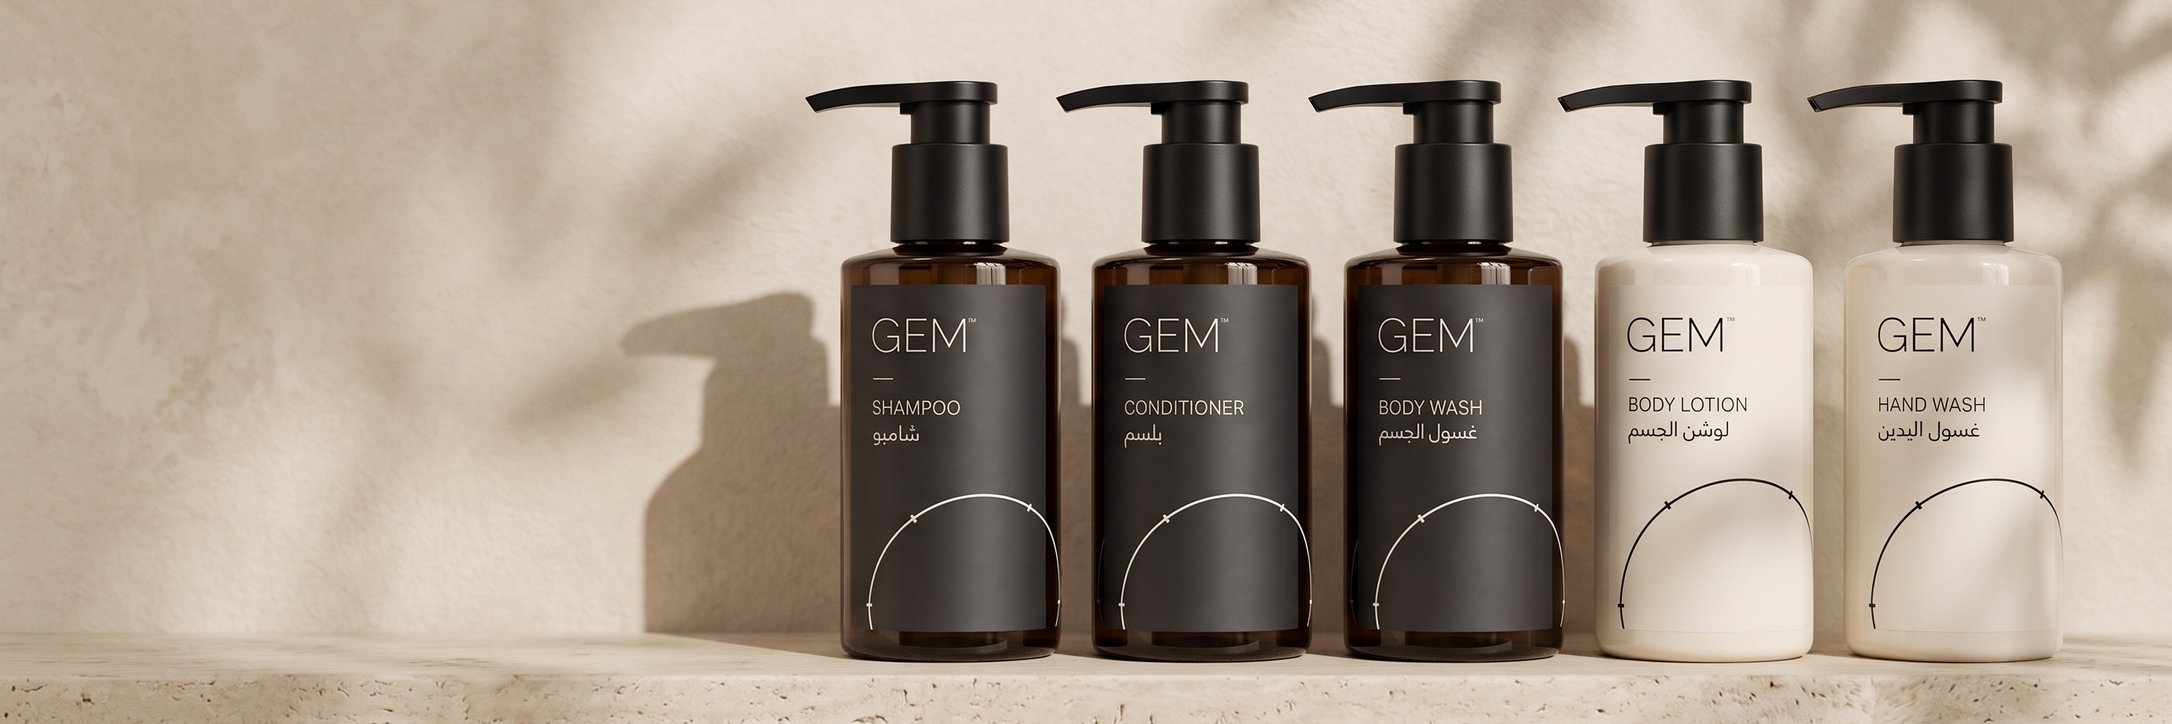
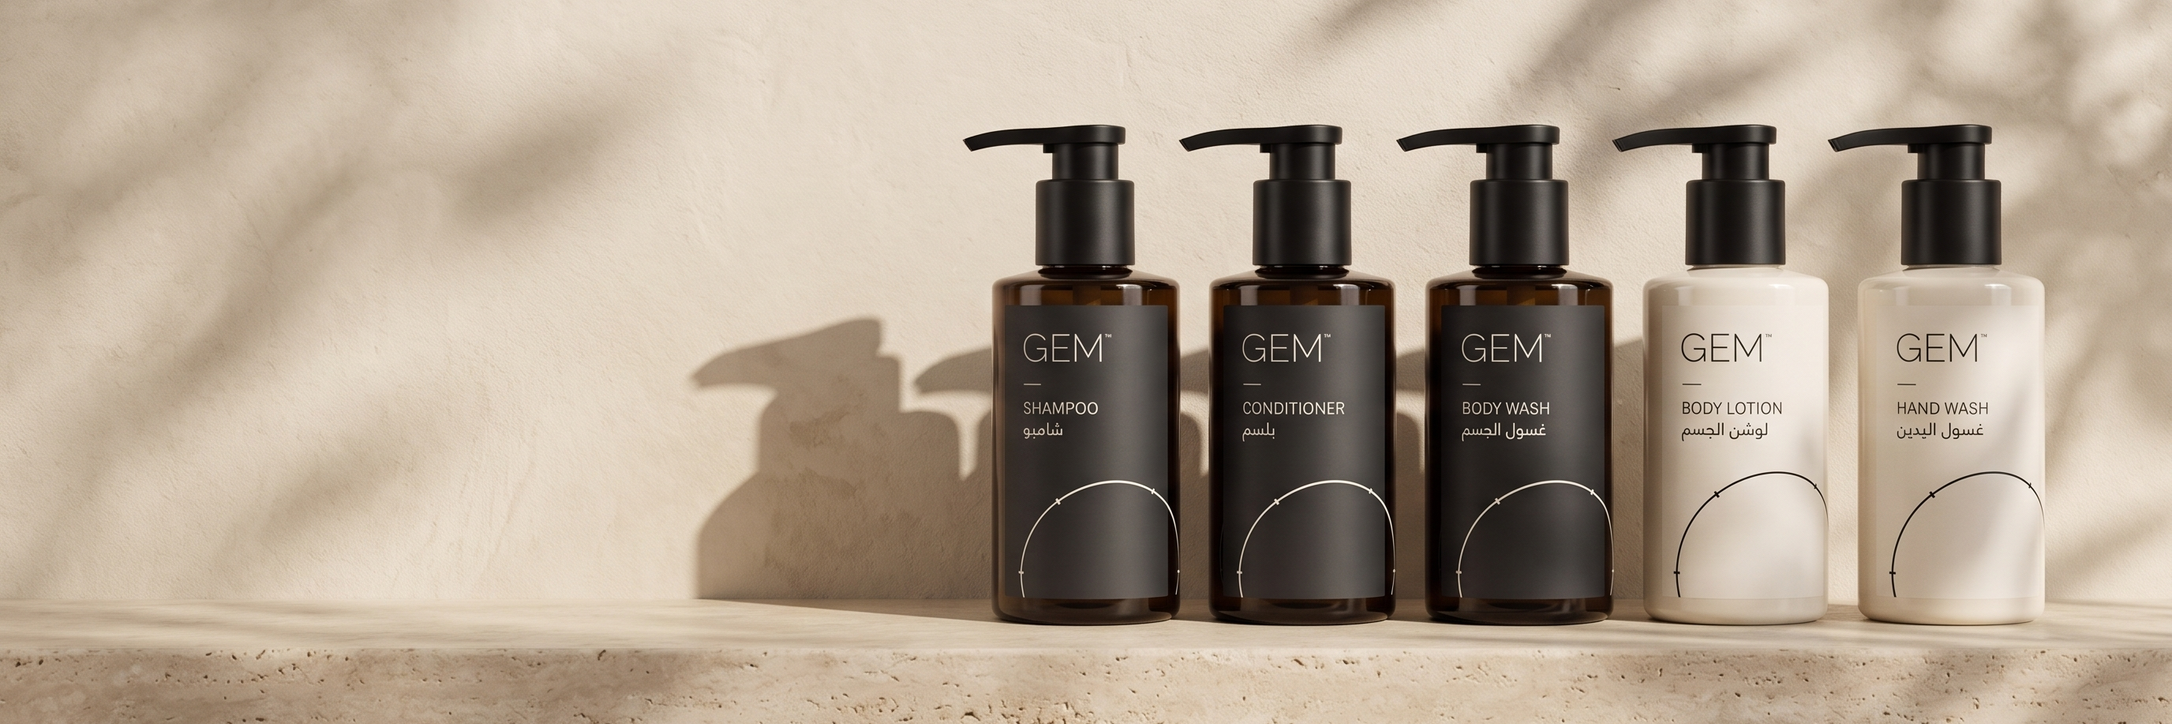
feat: pulled-back V02 LTR candidate with correct framing

diff --git a/website/records/visual-replacements-20261030/README.md b/website/records/visual-replacements-20261030/README.md
@@ -11,7 +11,7 @@
 ## Checked by eye against the brief's checklist
 | Candidate | Result |
 |---|---|
-| `family-candidate` (V02 LTR, 2172×724) | Order, colours, pumps, labels and Arabic names correct. **Framing issue:** after the 3:1 crop the bottles fill about 85% of the height with no headroom. A "pull the camera back" regeneration was started and had not returned when this was written. |
+| `family-candidate` (V02 LTR, 2172×724) | **Second, pulled-back generation** (`generated/v02-family-ltr-v2-pulledback-gemini-raw.jpeg`, downloaded by the owner from the Gemini chat). Order, colours, pumps, labels and Arabic names correct; bottles about 38% to 79% of the height with clear wall above and a visible shelf; left 40% empty. The first generation (`v02-family-ltr-gemini-raw.jpeg`) is kept but its bottles filled about 85% of the crop. |
 | `family-rtl-candidate` (V02 RTL, 2172×724) | Reversed order, labels not mirrored, light from the right, correct colours. Same framing issue. |
 | `social-candidate` (V03, 1200×630) | Five bottles correct, one fully visible card, no clipped wordmark, GEM logo lockup band restored in the bottom 92 px (ivory `#F8F3EA`, `static/logo-ink.svg`). |
 | `format-wall-candidate` (V09, 1536×1024) | Body Wash correct, bracket and full pump visible, wall now a pale desaturated ivory travertine. 480/960 WebP exports not yet made. |
@@ -22,8 +22,8 @@ Limits: colour was judged visually, not measured. Wall and shelf tones sit withi
 ## SHA-256 of candidates
 | File | SHA-256 |
 |---|---|
[7 lines of base64/hex data omitted]
